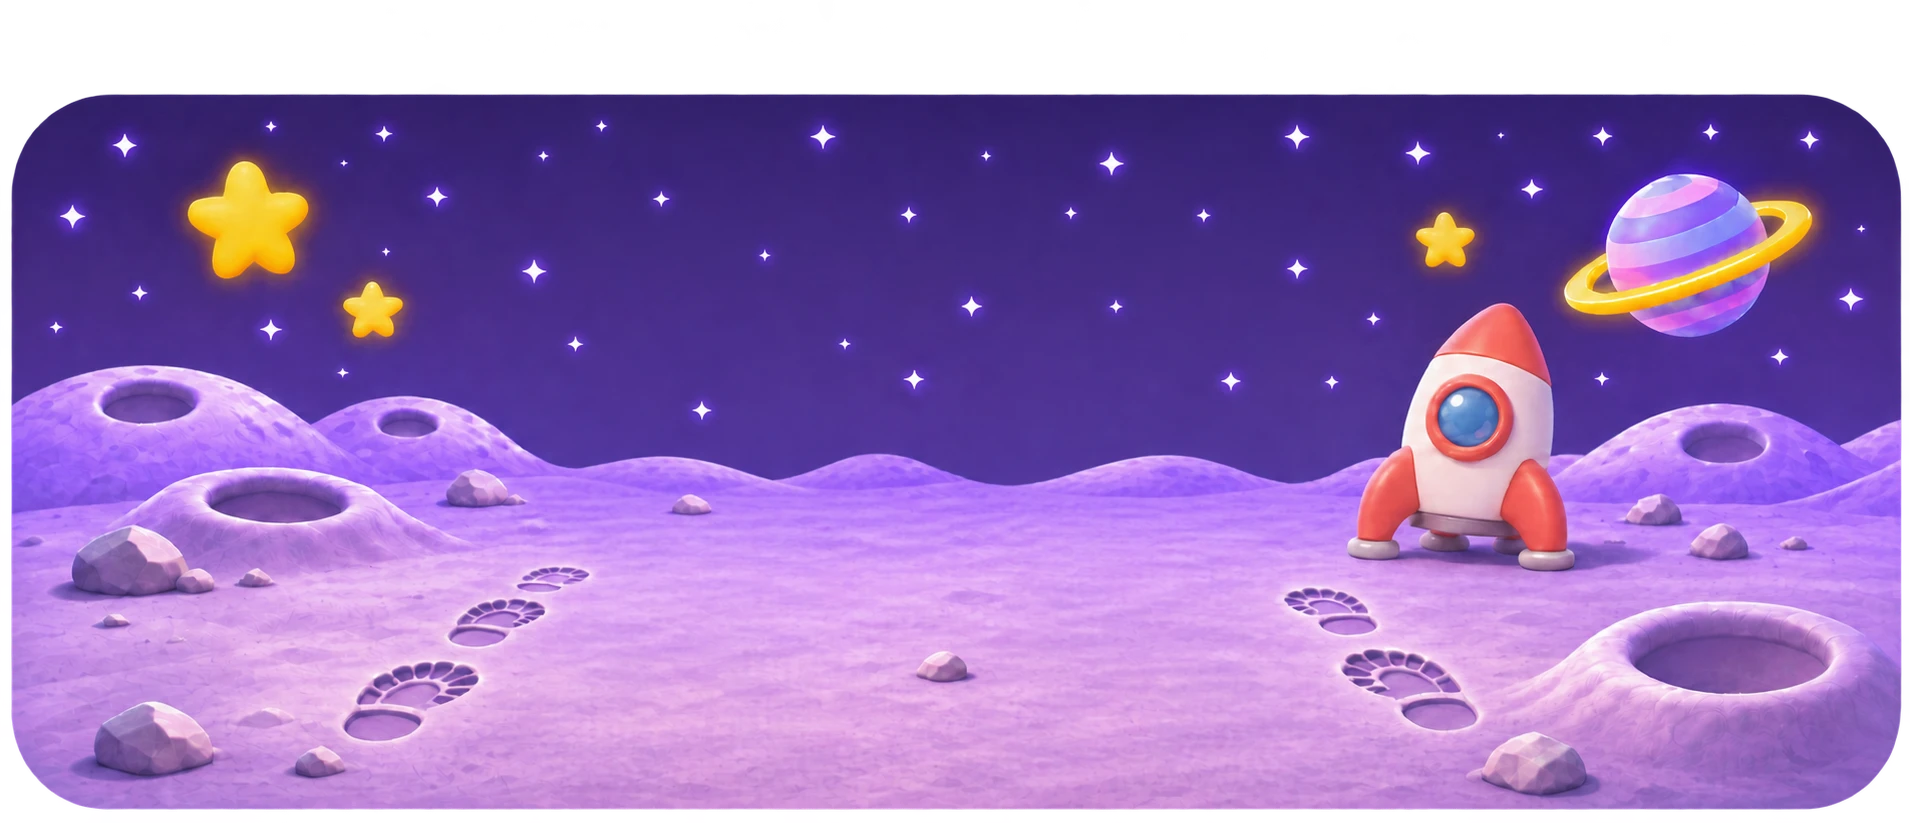
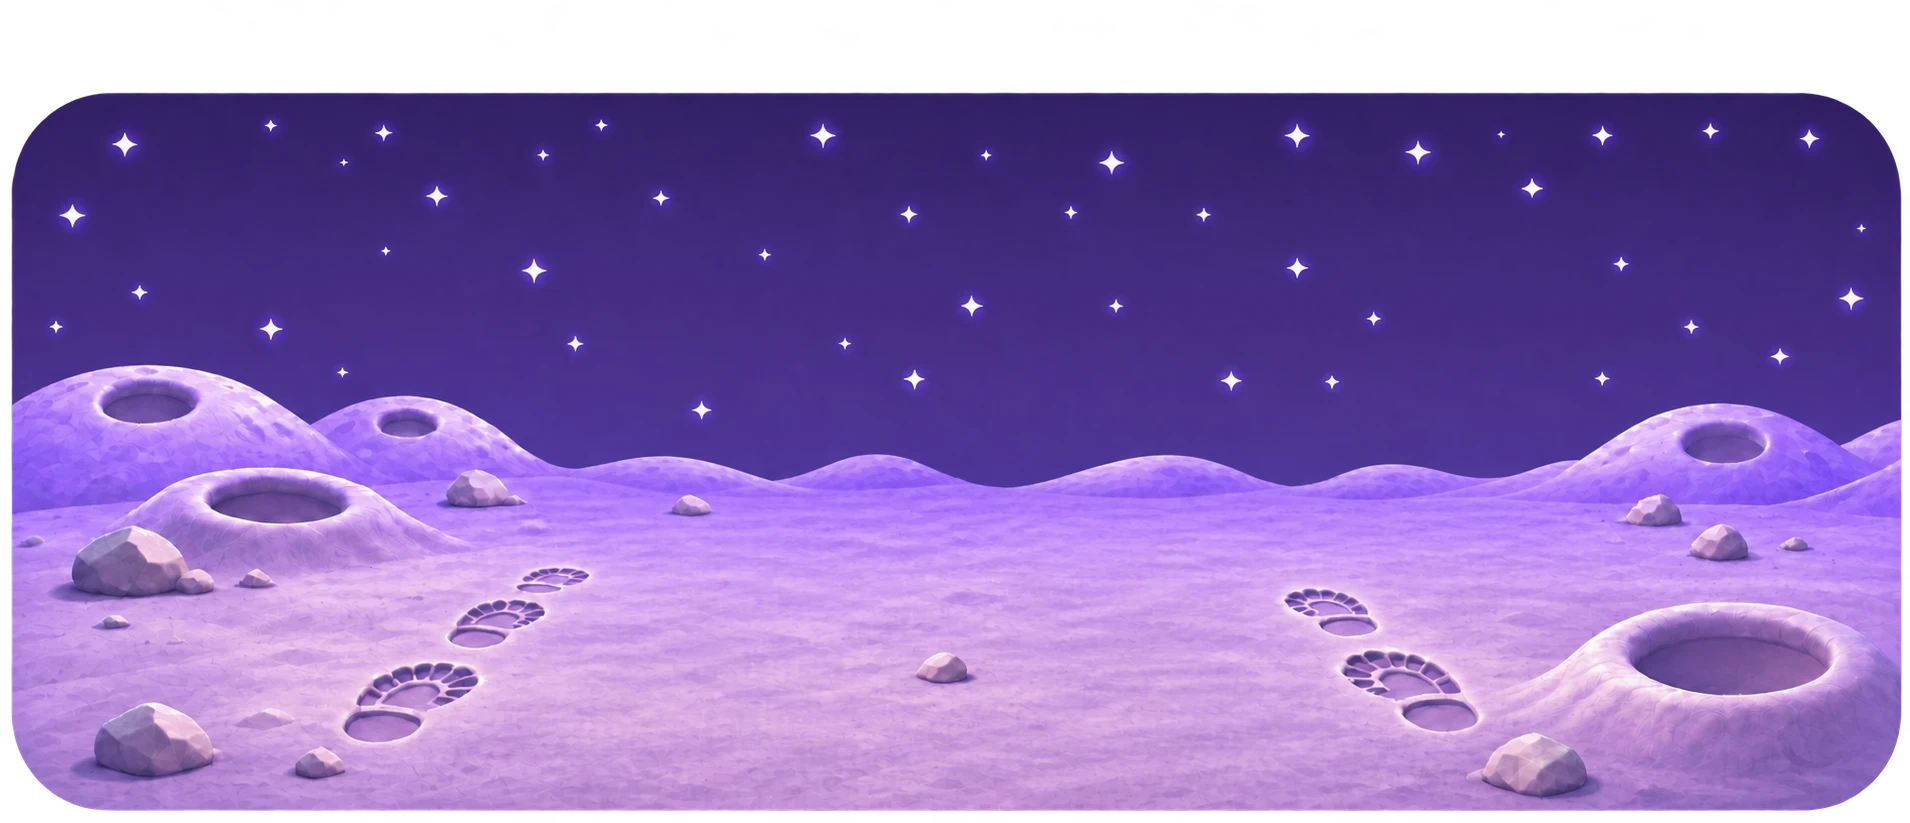
P-05 우주비행사 — 달 배경을 소품 없는 판으로 · 로켓 · 별 · 행성을 소품 레이어로 따로 (A-00~A-02 예전 자리) · A-03 레이어 장면(가리키기 · 로켓 보기 · 무지갯빛 새 별 · 로켓 문 자리 빈 목소리 게이지 — 임시 모양)

diff --git a/kiosk/src/renderer/p05/script.ts b/kiosk/src/renderer/p05/script.ts
@@ -28,6 +28,26 @@ export interface LayeredScene {
   bg: string
   girl: string
   boy: string
+  /** 배경 위 · 인물 뒤에 놓는 소품 (2026-11-26 — 로켓 · 별 · 행성을 배경에서 빼고 따로 받음) */
+  props?: readonly SceneProp[]
+}
+
+/**
+ * 소품 한 개 — 그림 `layers/<직업>/<img 또는 name>.webp` (투명 여백을 잘라 둔 그림). name은 장면 사이에서 같은 소품을 알아보는 이름.
+ * 자리는 **배경 그림 픽셀**(bg-moon 1910 × 823) 기준: 가운데(cx · cy)와 폭(w). 높이는 그림 비율대로.
+ * 같은 배경의 다음 장면에도 같은 이름이 있으면 그 자리로 스르르 옮겨 가고(크기도), 없어지면 사라지고, 새로 생기면 나타난다.
+ */
+export interface SceneProp {
+  name: string
+  /** 그림 이름 (없으면 name) — 같은 그림을 여러 개 놓을 때 */
+  img?: string
+  cx: number
+  cy: number
+  w: number
+  /** glow = 노란 빛 번짐 · twinkle = 반짝반짝(빛이 커졌다 작아졌다) */
+  fx?: 'glow' | 'twinkle'
+  /** 로켓 목소리 게이지 — 문 자리에 그린다 (0 = 빈 채 ~ 1 = 꽉 참) */
+  gauge?: number
 }
 
 export interface JobScript {
@@ -87,6 +107,15 @@ export const COMMON = {
   /** 받아쓰기를 기다리는 동안 */
   listening: '잘 듣고 있어요',
 } as const
+
+/** 우주비행사 달 장면의 소품 — 2026-11-24 배경 그림에 있던 자리 (배경 1910 × 823 픽셀) */
+const MOON_PROPS: readonly SceneProp[] = [
+  { name: 'prop-star-yellow', cx: 248, cy: 218, w: 125, fx: 'glow' },
+  { name: 'prop-star-yellow-2', img: 'prop-star-yellow', cx: 373, cy: 308, w: 62, fx: 'glow' },
+  { name: 'prop-star-yellow-3', img: 'prop-star-yellow', cx: 1444, cy: 240, w: 60, fx: 'glow' },
+  { name: 'prop-planet', cx: 1688, cy: 255, w: 250 },
+  { name: 'prop-rocket', cx: 1460, cy: 437, w: 213, gauge: 0 },
+]
 
 export const SCRIPTS: Record<JobId, JobScript> = {
   police: {
@@ -160,13 +189,30 @@ export const SCRIPTS: Record<JobId, JobScript> = {
       '13': '우주선 창밖으로 반짝이는 별들과 저 앞의 무지갯빛 새 별. 여자아이가 가리키며 외치고, 남자아이는 창에 붙어 신기해한다',
       '14': '알록달록한 새 별 위에 깃발을 꽂고 두 아이가 만세. 뒤로 착륙한 로켓',
     },
+    // 소품 자리 — 처음엔 2026-11-24 배경(로켓 · 별 · 행성이 그려져 있던 판)의 자리 그대로
     layered: {
       // 대사 없이 0.5초 — 달 위에서 둘이 마주 보고 이야기하는 중 (여자아이는 듣고, 남자아이는 손짓하며 말한다)
-      '00': { bg: 'bg-moon', girl: 'girl-idle', boy: 'boy-explain' },
+      '00': { bg: 'bg-moon', girl: 'girl-idle', boy: 'boy-explain', props: MOON_PROPS },
       // "안녕! 나는 우주 비행사야!" — 아이를 돌아보며 (엄지 척 · 허리에 손)
-      '01': { bg: 'bg-moon', girl: 'girl-thumbsup', boy: 'boy-hips' },
+      '01': { bg: 'bg-moon', girl: 'girl-thumbsup', boy: 'boy-hips', props: MOON_PROPS },
       // "나도 우주 비행사! 오늘 너는 우리 우주 대원이야!" — 남자아이가 별 배지를 내밀고, 여자아이는 박수
-      '02': { bg: 'bg-moon', girl: 'girl-clap', boy: 'boy-badge' },
+      '02': { bg: 'bg-moon', girl: 'girl-clap', boy: 'boy-badge', props: MOON_PROPS },
+      // "달 탐험 끝! 이제 새로운 별로 가자!" · "우주선은 … 목소리를 들어야 출발할 수 있어." —
+      // 여자아이가 하늘의 무지갯빛 새 별을 가리키고(왼쪽 위 노란 별 자리에 나타남), 남자아이는 로켓 쪽을 본다.
+      // 로켓이 조금 커지고 문에 빈 목소리 게이지
+      '03': {
+        bg: 'bg-moon',
+        girl: 'girl-point',
+        boy: 'boy-look',
+        props: [
+          { name: 'prop-star-rainbow', cx: 300, cy: 200, w: 160, fx: 'twinkle' },
+          // 큰 노란 별 · 그 옆 작은 별 자리에 새 별이 나타난다 (겹치지 않게 둘은 뺌)
+          ...MOON_PROPS.filter(
+            (p) => !['prop-star-yellow', 'prop-star-yellow-2', 'prop-rocket'].includes(p.name),
+          ),
+          { name: 'prop-rocket', cx: 1505, cy: 418, w: 271, gauge: 0 },
+        ],
+      },
     },
   },
 

diff --git a/kiosk/src/renderer/screens/P05Speak.tsx b/kiosk/src/renderer/screens/P05Speak.tsx
@@ -51,7 +51,7 @@ import {
 } from '@shared/constants'
 import { jobLabel, scenarioFor } from '@shared/jobs'
 import type { AgeGroup, JobId, MockSttOutcome, SpeechLine, SpeechPart, SttRequest } from '@shared/types'
-import { COMMON, SCRIPTS, lineScene, partnerOf, sceneId, type Kid, type LayeredScene, type Who } from '../p05/script'
+import { COMMON, SCRIPTS, lineScene, partnerOf, sceneId, type Kid, type LayeredScene, type SceneProp, type Who } from '../p05/script'
 import {
   DING_URL,
   layerUrl,
@@ -1004,9 +1004,90 @@ function LayeredArt({
         draggable={false}
         style={{ left: -panel.left * k, top: -panel.top * k, width: panel.width * k }}
       />
+      <Props job={job} props={def.props ?? NO_PROPS} panel={panel} k={k} />
       <Sprite url={layerUrl(job, def.girl)} cx={CAST_CX.girl} panelH={panelH} who="girl" />
       <Sprite url={layerUrl(job, def.boy)} cx={CAST_CX.boy} panelH={panelH} who="boy" />
     </div>
+  )
+}
+
+const NO_PROPS: readonly SceneProp[] = []
+
+type PropItem = { p: SceneProp; fade?: 'in' | 'out' }
+
+/**
+ * 소품(로켓 · 별 · 행성) — 배경 위 · 인물 뒤 (2026-11-26).
+ * 같은 배경에서 장면이 바뀌면: 같은 이름은 새 자리 · 크기로 스르르 옮겨 가고, 빠진 것은 사라지고, 새것은 나타난다.
+ */
+function Props({
+  job,
+  props,
+  panel,
+  k,
+}: {
+  job: JobId
+  props: readonly SceneProp[]
+  panel: ScenePanel
+  k: number
+}): ReactNode {
+  const [items, setItems] = useState<PropItem[]>(() => props.map((p) => ({ p })))
+
+  useEffect(() => {
+    setItems((prev) => {
+      const now = new Set(props.map((p) => p.name))
+      const shown = new Set(prev.filter((it) => it.fade !== 'out').map((it) => it.p.name))
+      const leaving = prev
+        .filter((it) => !now.has(it.p.name))
+        .map((it): PropItem => ({ ...it, fade: 'out' }))
+      return [
+        ...leaving,
+        ...props.map((p): PropItem => (shown.has(p.name) ? { p } : { p, fade: 'in' })),
+      ]
+    })
+  }, [props])
+
+  useEffect(() => {
+    if (!items.some((it) => it.fade === 'out')) return
+    const id = window.setTimeout(
+      () => setItems((its) => its.filter((it) => it.fade !== 'out')),
+      POSE_FADE_MS + 40,
+    )
+    return () => window.clearTimeout(id)
+  }, [items])
+
+  return (
+    <>
+      {items.map(({ p, fade }) => {
+        const url = layerUrl(job, p.img ?? p.name)
+        if (!url) return null
+        return (
+          <span
+            key={p.name}
+            className={`p05-prop${fade ? ` is-${fade}` : ''}`}
+            data-prop={p.name}
+            data-fx={p.fx}
+            style={{ left: (p.cx - panel.left) * k, top: (p.cy - panel.top) * k, width: p.w * k }}
+          >
+            <img src={url} alt="" draggable={false} />
+            {p.gauge !== undefined && <RocketGauge level={p.gauge} />}
+          </span>
+        )
+      })}
+    </>
+  )
+}
+
+/**
+ * 로켓 목소리 게이지 — 로켓 문 자리(손잡이 왼쪽, 세로로 긴 둥근 칸)에 그린다. 아래에서부터 차오른다 (0 ~ 1).
+ * 받은 로켓 그림(2026-11-26)에 게이지 틀이 없어 앱이 그린다 — 자리는 styles/p05.css .p05-gauge (prop-rocket 그림 안 비율).
+ * ⚠ 모양 · 색은 임시 — 디자인을 받으면 바꾼다. 채우기(아이 차례 A-06 · 연습 반응)는 아직 안 붙였다 — 지금은 늘 빈 채
+ */
+function RocketGauge({ level }: { level: number }): ReactNode {
+  const pct = Math.round(Math.min(1, Math.max(0, level)) * 100)
+  return (
+    <span className="p05-gauge" aria-hidden="true">
+      <span className="p05-gauge__fill" style={{ height: `${pct}%` }} />
+    </span>
   )
 }
 

diff --git a/kiosk/src/renderer/styles/p05.css b/kiosk/src/renderer/styles/p05.css
@@ -763,3 +763,84 @@ img.p05-scene__art--pop {
     opacity: 0;
   }
 }
+
+/* ── 소품 (2026-11-26) — 로켓 · 별 · 행성. 자리 · 폭은 P05Speak.tsx(Props)가 배경 픽셀에서 바꿔 준다 (가운데 기준) ── */
+.p05-prop {
+  position: absolute;
+  translate: -50% -50%;
+  transition:
+    left 0.32s ease,
+    top 0.32s ease,
+    width 0.32s ease;
+}
+
+.p05-prop img {
+  display: block;
+  width: 100%;
+  height: auto;
+}
+
+.p05-prop.is-in {
+  animation: p05-sprite-in 0.32s ease-out both;
+}
+
+.p05-prop.is-out {
+  animation: p05-sprite-out 0.32s ease-in both;
+}
+
+/* 노란 별 — 예전 배경 그림처럼 노란 빛이 번진다 */
+.p05-prop[data-fx="glow"] img {
+  filter: drop-shadow(0 0 10px rgb(255 214 64 / 0.75));
+}
+
+/* 무지갯빛 새 별 — 반짝반짝 */
+.p05-prop[data-fx="twinkle"] img {
+  animation: p05-twinkle 1.6s ease-in-out infinite;
+}
+
+@keyframes p05-twinkle {
+  0%,
+  100% {
+    scale: 1;
+    filter: drop-shadow(0 0 6px rgb(255 255 255 / 0.55));
+  }
+  50% {
+    scale: 1.08;
+    filter: drop-shadow(0 0 24px rgb(255 236 255 / 0.95));
+  }
+}
+
+/* 로켓 목소리 게이지 — prop-rocket 그림의 문 자리(손잡이 왼쪽). ⚠ 모양 · 색 임시 */
+.p05-gauge {
+  position: absolute;
+  left: 20%;
+  top: 29%;
+  width: 13%;
+  height: 30%;
+  border-radius: 999px;
+  background:
+    repeating-linear-gradient(
+      to top,
+      transparent 0 calc(25% - 2px),
+      rgb(255 255 255 / 0.8) calc(25% - 2px) 25%
+    ),
+    rgb(5 9 84 / 0.16);
+  box-shadow: inset 0 2px 5px rgb(5 9 84 / 0.3);
+  overflow: hidden;
+}
+
+.p05-gauge__fill {
+  position: absolute;
+  left: 0;
+  right: 0;
+  bottom: 0;
+  border-radius: inherit;
+  background: linear-gradient(to top, #ff7a3d, #ffd84a);
+  transition: height 0.12s linear;
+}
+
+@media (prefers-reduced-motion: reduce) {
+  .p05-prop[data-fx="twinkle"] img {
+    animation: none;
+  }
+}

diff --git a/kiosk/src/renderer/p05/media.ts b/kiosk/src/renderer/p05/media.ts
@@ -234,7 +234,13 @@ export async function preloadLayers(job: JobId): Promise<void> {
   for (const [key, url] of LAYERS) {
     if (!key.startsWith(`${job}/`)) continue
     const name = key.slice(job.length + 1)
-    work.push((name.startsWith('bg') ? measurePanel(url) : measureSprite(url)).catch(() => undefined))
+    // 배경 = 판을 잼 · 인물 = 몸을 잼 · 소품(prop-) = 미리 풀어 두기만
+    const load = name.startsWith('bg')
+      ? measurePanel(url)
+      : name.startsWith('prop-')
+        ? loadImage(url)
+        : measureSprite(url)
+    work.push(load.catch(() => undefined))
   }
   await Promise.all(work)
 }

diff --git a/V2_BUILD_CHECKLIST.md b/V2_BUILD_CHECKLIST.md
@@ -305,7 +305,8 @@
     - 장면을 **레이어**로 — 배경 판 + 남녀 포즈 그림(`assets/p05/layers/<직업>/`)을 겹치고, 배경이 같으면 포즈만 크로스페이드 · 배경이 바뀌면 장면째 넘김. 첫 장면은 둘이 마주 보고 이야기하다 0.5초 뒤 아이 쪽으로 (우주비행사 A-01 · A-02 받음)
     - 그림 칸: 따라 말할 말이 없을 때는 카드에 꽉 차고(2.6 : 1), 나올 때만 줄어든다 · 칸 아래 **진행 바**(연습 7칸 → 문장 6칸 · 단색 #f6575a)
     - 자막 크게(48px · 긴 대사 38px) → **말풍선** — 꼬리가 말하는 아이를 가리킴 · 여자아이 분홍 #FF4E6D · 남자아이 파랑 · 둘이 같이 보라(꼬리 두 개)
-    - 우주비행사 임무 대사를 자막 3개 · 그림 2장(A-03 · A-03-2)으로 나눔 (진행 바는 한 칸) · 귀 모양 신호등 → 로켓 **목소리 게이지**(아직 안 만듦 — 그림 받으면)
+    - 우주비행사 임무 대사를 자막 3개 · 그림 2장(A-03 · A-03-2)으로 나눔 (진행 바는 한 칸) · 귀 모양 신호등 → 로켓 **목소리 게이지**
+    - 2026-11-26 달 배경을 소품 없는 판으로 바꾸고 로켓 · 노란 별 · 행성 · 무지갯빛 별을 **소품 레이어**로 따로 올림 (A-00 ~ A-02는 예전 자리 그대로) · **A-03 레이어로** (여자아이 가리키기 · 남자아이 로켓 보기 · 새 별 반짝 · 로켓이 조금 커짐) · 로켓 문 자리에 **빈 목소리 게이지**(앱이 그림 — 모양 · 색 임시, 채우기는 아직 안 붙임) · A-03-2는 그림 기다림
     - **연습은 한 번만** — 작게 · 무음이어도 다시 시키지 않고, 캐릭터가 "내가 다시 해 볼게! 준비 완료!" 시범 뒤 진행 (6개 직업 대사 같은 틀)
     - 흐름도(`docs/user-flow/index.html` · PDF)를 지금 앱 캡처로 다시 맞춤
     - **만 4세 어절 끊기 없앰 · 연령마다 다른 문장** — 모든 연령이 문장 전체를 한 번에(들려주기 → 띵 → 녹음 한 번 · 다시 말하기 규칙은 그대로) · 만 4세 안내 "하나씩 따라 해 줘" 대신 모두 "첫 번째 신호! 잘 듣고 똑같이 말해 줘." · 큰 글씨는 문장 전체 · 녹음 최대 6초(4초는 연습에만) · 따라 말할 문장 만 4 · 5 · 6+ 모두 따로(36개 — 우주비행사는 발화 대사 자문 자료 3.5 그대로, 나머지 5개 직업은 초안: 만 5세 = 전의 만 4 · 5세 문장 · 만 6세 이상 = 전의 문장 · 만 4세 = 새 짧은 초안) · WAV는 `01_police.wav` 꼴(어절 번호 칸은 코드에 남김)

diff --git a/docs/P05_SCENARIO.md b/docs/P05_SCENARIO.md
@@ -95,7 +95,7 @@
 듣는 대상: **우주선** · 배경: 이미 우주에 나와 있다 — 보랏빛 달 표면(저 멀리 세워 둔 로켓) → 별 사이 우주 → 무지갯빛 새 별
 (이야기: 달 탐험을 마쳤고, 새로운 별로 가려면 우주선이 우주 대원 목소리를 들어야 한다 — 로켓이 크레이터 너머에 있어서 "멀리 있나 봐"가 자연스럽다)
 
-> **목소리 게이지** (2026-11-24 — 귀 모양 신호등 대신): 로켓 몸통의 세로 게이지. **그림에는 빈 게이지 틀만 그리고, 채우는 건 앱이 한다** — 아이가 말하는 동안 마이크 소리 크기를 따라 차오르고, 그 녹음에서 가장 컸던 크기까지 내려가지 않는다(최고치 유지). 빈칸 = 말소리 시작 기준(-45 dBFS), 꽉 참 = "크게" 기준(-30 dBFS) — 그래서 "준비 완료!" 연습의 크게 · 작게 · 무음 반응과 게이지가 늘 같은 말을 한다. 숫자는 안 보인다. 녹음이 새로 시작될 때마다 비운다. A-03 · A-03-2처럼 듣기만 하는 장면에선 빈 채로 둔다(비활성).
+> **목소리 게이지** (2026-11-24 — 귀 모양 신호등 대신): 로켓 몸통의 세로 게이지. **그림에는 빈 게이지 틀만 그리고, 채우는 건 앱이 한다** (2026-11-26 받은 로켓에는 틀이 없어 앱이 로켓 문 자리에 틀까지 그린다 — 모양 · 색 임시) — 아이가 말하는 동안 마이크 소리 크기를 따라 차오르고, 그 녹음에서 가장 컸던 크기까지 내려가지 않는다(최고치 유지). 빈칸 = 말소리 시작 기준(-45 dBFS), 꽉 참 = "크게" 기준(-30 dBFS) — 그래서 "준비 완료!" 연습의 크게 · 작게 · 무음 반응과 게이지가 늘 같은 말을 한다. 숫자는 안 보인다. 녹음이 새로 시작될 때마다 비운다. A-03 · A-03-2처럼 듣기만 하는 장면에선 빈 채로 둔다(비활성).
 
 | 그림 | 언제 · 누가 | 대사 | 장면 (완성 그림 한 장) |
 | --- | --- | --- | --- |

diff --git a/kiosk/src/renderer/assets/p05/README.md b/kiosk/src/renderer/assets/p05/README.md
@@ -12,7 +12,9 @@
 - **배경** `bg-<이름>` (예: `bg-moon`) — 튀어나오는 그림과 같은 규격: 투명 바탕 위의 판 · 그림 1910 × 823 · 판 1890 × 714 · 인물은 넣지 않는다
 - **인물** `girl-<포즈>` · `boy-<포즈>` (예: `girl-idle` · `boy-explain` · `girl-thumbsup` · `boy-hips`) — 바탕 투명 · 전신(헬멧 꼭대기 ~ 발끝) · 캔버스 크기는 달라도 된다 (앱이 몸 테두리 · 헬멧 가운데를 재서 같은 키 · 같은 자리에 세운다). 손이 헬멧보다 위로 올라가면 키가 작아 보이니 피한다
 - 여자아이는 판의 왼쪽(헬멧 가운데가 판 폭의 36%), 남자아이는 오른쪽(59.5%)에 선다 · 키는 판 높이의 108%(헬멧이 판 위로 튀어나온다)
-- 대사마다 어떤 배경 · 포즈를 쓰는지는 `p05/script.ts`의 `layered` (장면 `00` = 대사 없이 먼저 0.5초 보이는 장면)
+- **소품** `prop-<이름>` (2026-11-26 — 예: `prop-rocket` · `prop-planet` · `prop-star-yellow` · `prop-star-rainbow`) — 로켓 · 별 · 행성을 배경에서 빼고 따로 받는다. 바탕 투명 · 여백은 잘라서 넣는다(그림 크기 = 보이는 크기). 배경 위 · 인물 뒤에 놓이고, 자리 · 크기는 대사마다 `layered`의 `props`(배경 그림 픽셀 기준 가운데 · 폭)로 정한다. 같은 배경에서 장면이 바뀌면 같은 소품은 새 자리로 스르르 옮겨 가고, 빠진 것은 사라지고, 새것은 나타난다
+  - 로켓 목소리 게이지는 앱이 로켓 **문 자리**에 그린다 (받은 로켓에 게이지 틀이 없어서 — 모양 · 색 임시)
+- 대사마다 어떤 배경 · 포즈 · 소품을 쓰는지는 `p05/script.ts`의 `layered` (장면 `00` = 대사 없이 먼저 0.5초 보이는 장면)
 
 ## 장면 그림 — `scenes/<직업>/<장면 번호>.webp`
 
